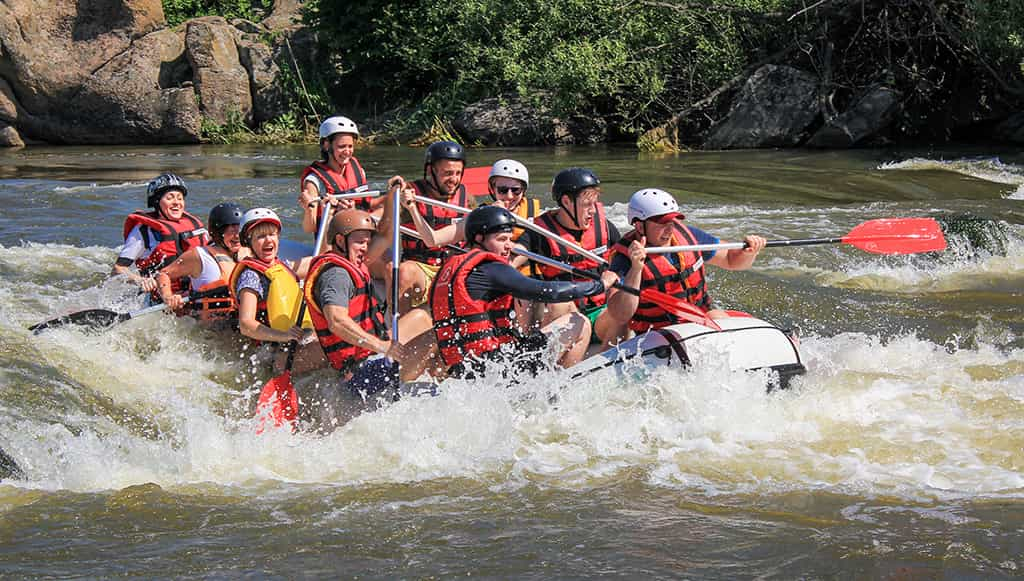
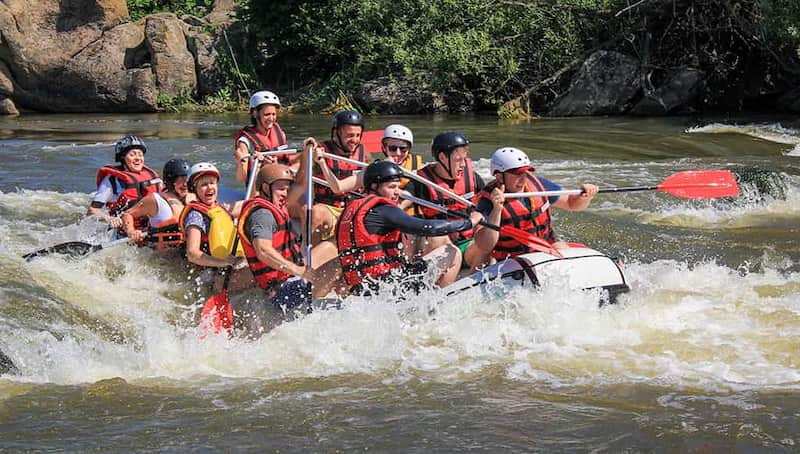
week04 08

diff --git a/wwr/about.html b/wwr/about.html
@@ -23,7 +23,7 @@
     </header> 
     <main>
         <div class="hero"> 
-            <img src="images/rafting10_1024.jpg" alt="rafting background">
+            <img class="background" src="images/rafting10_1024.jpg" alt="rafting background">
             <h1>Moyie River Adventures</h1>
             <article class="hero-article">
                 <img src="images/happy-employee.webp" alt="Happy Person" width="300">

diff --git a/wwr/styles/rafting.css b/wwr/styles/rafting.css
@@ -118,6 +118,10 @@ p {
   color: #e1dfea;
 }
 
+.background {
+  width: 1024px;
+}
+
 .hero img{
   grid-column: 1 / 4;
   grid-row: 1 / 4;
